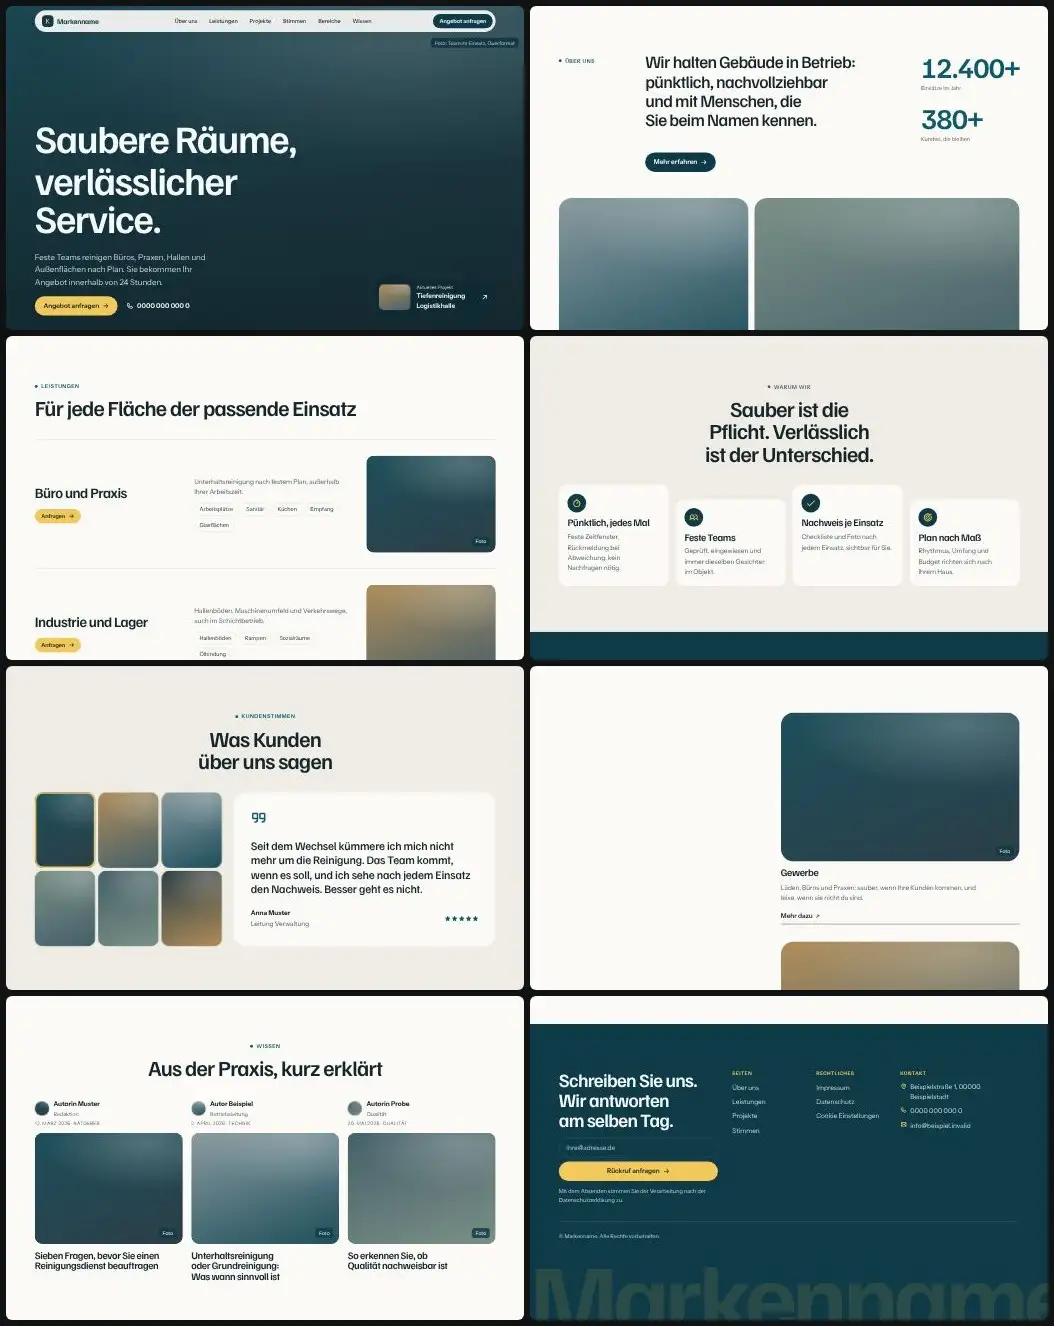
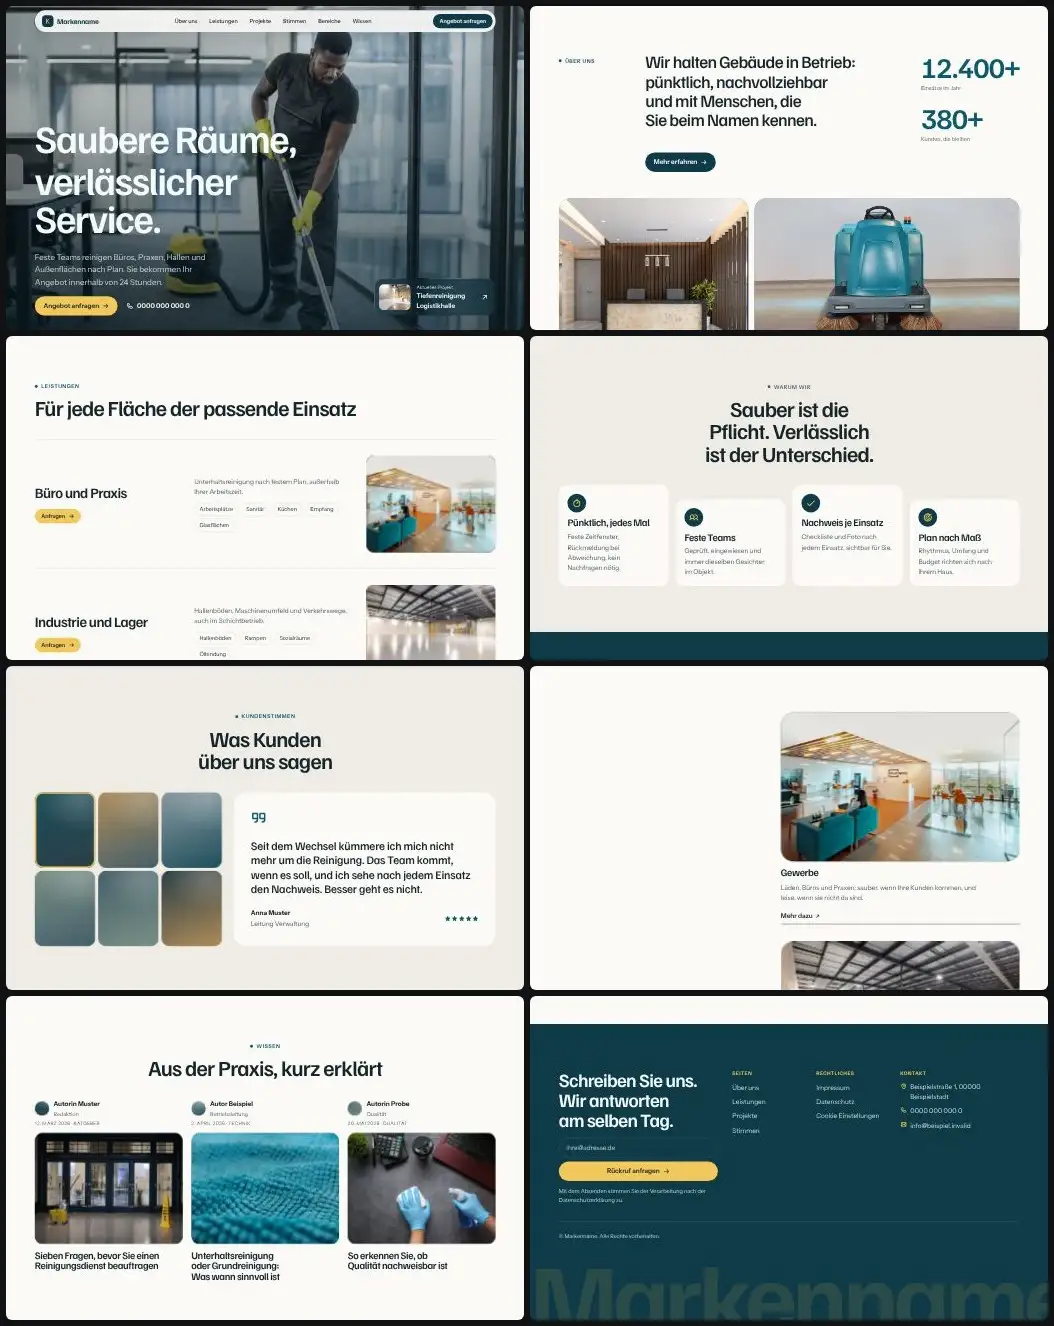
Bibliothek t31: Beispielfotos (Unsplash) eingebaut, Vorschaubilder neu erzeugt
Claude-Session: https://claude.ai/code/session_01DoGuL1bwF3ewggMgZ4Cpvd

diff --git a/skills/webdesign-conversion/assets/vorlagen/bibliothek/t31/index.html b/skills/webdesign-conversion/assets/vorlagen/bibliothek/t31/index.html
@@ -59,7 +59,7 @@
 
 <!-- Held -->
 <section class="held" id="top" data-abdunkeln aria-labelledby="held-titel">
-  <div class="held__bild bild bild--a" data-platzhalter="Foto: Team im Einsatz, Querformat"></div>
+  <div class="held__bild bild bild--a"><img src="bilder/buero-saugen-team.webp" width="1600" height="1280" decoding="async" alt="Reinigungskraft saugt einen Büroboden mit einem Staubsauger"></div>
   <div class="held__schleier" aria-hidden="true"></div>
   <div class="wrap held__innen">
     <h1 id="held-titel">
@@ -74,7 +74,7 @@
       </div>
     </div>
     <a class="held__karte" href="#projekte" data-zeig="skala" style="--i:2">
-      <span class="bild bild--b" data-platzhalter="Foto"></span>
+      <span class="bild bild--b"><img src="bilder/halle-bodenarbeit.webp" width="600" height="400" loading="lazy" decoding="async" alt=""></span>
       <span class="held__karte-text"><small>Aktuelles Projekt</small><strong>Tiefenreinigung Logistikhalle</strong></span>
       <svg width="20" height="20" aria-hidden="true"><use href="#i-schraeg"/></svg>
     </a>
@@ -115,8 +115,8 @@
     <div class="ueber__link" data-zeig><a class="knopf knopf--dunkel" href="#leistungen">Mehr erfahren <svg width="18" height="18" aria-hidden="true"><use href="#i-pfeil"/></svg></a></div>
   </div>
   <div class="wrap ueber__bilder">
-    <div class="bild bild--c" data-platzhalter="Foto: Eingangsbereich" data-zeig="skala"></div>
-    <div class="bild bild--d" data-platzhalter="Foto: Gerät im Einsatz" data-zeig="skala" style="--i:1"></div>
+    <div class="bild bild--c" data-zeig="skala"><img src="bilder/eingangsbereich-empfang.webp" width="1000" height="563" loading="lazy" decoding="async" alt="Heller Eingangsbereich mit Empfangstresen und Aufzügen"></div>
+    <div class="bild bild--d" data-zeig="skala" style="--i:1"><img src="bilder/bodenreiniger-tuerkis.webp" width="1000" height="667" loading="lazy" decoding="async" alt="Türkisfarbene Bodenreinigungsmaschine mit Bürsten"></div>
   </div>
 </section>
 
@@ -125,7 +125,7 @@
   <div class="wrap zweiteiler__raster">
     <div class="zweiteiler__tafel" data-zeig="links">
       <h2 id="zweiteiler-titel">Gründlich, weil wir es selbst machen.</h2>
-      <div class="bild bild--e" data-platzhalter="Foto: Detail"></div>
+      <div class="bild bild--e"><img src="bilder/handschuhe-schreibtisch.webp" width="1000" height="667" loading="lazy" decoding="async" alt="Hände mit blauen Handschuhen wischen einen Schreibtisch ab"></div>
       <p>Ein festes Team pro Objekt, ein Ansprechpartner, ein Plan. Wir arbeiten mit geprüften Mitteln und dokumentieren jeden Einsatz.</p>
       <a class="knopf" href="#kontakt">Preise anfragen <svg width="18" height="18" aria-hidden="true"><use href="#i-pfeil"/></svg></a>
     </div>
@@ -146,22 +146,22 @@
       <li class="zeile" data-zeig>
         <div class="zeile__kopf"><h3>Büro und Praxis</h3><a class="knopf knopf--klein" href="#kontakt">Anfragen <svg width="16" height="16" aria-hidden="true"><use href="#i-pfeil"/></svg></a></div>
         <div class="zeile__text"><p>Unterhaltsreinigung nach festem Plan, außerhalb Ihrer Arbeitszeit.</p><ul class="etiketten"><li>Arbeitsplätze</li><li>Sanitär</li><li>Küchen</li><li>Empfang</li><li>Glasflächen</li></ul></div>
-        <div class="bild bild--a" data-platzhalter="Foto"></div>
+        <div class="bild bild--a"><img src="bilder/lounge-buero.webp" width="800" height="452" loading="lazy" decoding="async" alt=""></div>
       </li>
       <li class="zeile" data-zeig>
         <div class="zeile__kopf"><h3>Industrie und Lager</h3><a class="knopf knopf--klein" href="#kontakt">Anfragen <svg width="16" height="16" aria-hidden="true"><use href="#i-pfeil"/></svg></a></div>
         <div class="zeile__text"><p>Hallenböden, Maschinenumfeld und Verkehrswege, auch im Schichtbetrieb.</p><ul class="etiketten"><li>Hallenböden</li><li>Rampen</li><li>Sozialräume</li><li>Ölbindung</li></ul></div>
-        <div class="bild bild--b" data-platzhalter="Foto"></div>
+        <div class="bild bild--b"><img src="bilder/lagerhalle-boden.webp" width="800" height="534" loading="lazy" decoding="async" alt=""></div>
       </li>
       <li class="zeile" data-zeig>
         <div class="zeile__kopf"><h3>Außen und Fassade</h3><a class="knopf knopf--klein" href="#kontakt">Anfragen <svg width="16" height="16" aria-hidden="true"><use href="#i-pfeil"/></svg></a></div>
         <div class="zeile__text"><p>Fassaden, Parkflächen und Zugänge, die den ersten Eindruck tragen.</p><ul class="etiketten"><li>Fassade</li><li>Parkplatz</li><li>Eingang</li><li>Winterdienst</li></ul></div>
-        <div class="bild bild--c" data-platzhalter="Foto"></div>
+        <div class="bild bild--c"><img src="bilder/fassade-reinigung.webp" width="800" height="600" loading="lazy" decoding="async" alt=""></div>
       </li>
       <li class="zeile" data-zeig>
         <div class="zeile__kopf"><h3>Sonderleistungen</h3><a class="knopf knopf--klein" href="#kontakt">Anfragen <svg width="16" height="16" aria-hidden="true"><use href="#i-pfeil"/></svg></a></div>
         <div class="zeile__text"><p>Einmalige Aufgaben mit festem Termin und festem Preis.</p><ul class="etiketten"><li>Bauendreinigung</li><li>Grundreinigung</li><li>Umzug</li><li>Teppich</li></ul></div>
-        <div class="bild bild--d" data-platzhalter="Foto"></div>
+        <div class="bild bild--d"><img src="bilder/tuch-handschuhe.webp" width="800" height="533" loading="lazy" decoding="async" alt=""></div>
       </li>
     </ul>
   </div>
@@ -191,10 +191,10 @@
       <h2 id="projekte-titel">Einsätze, auf die wir stolz sind</h2>
     </header>
     <div class="projekte__raster">
-      <figure class="p p--1" data-zeig="skala"><div class="bild bild--a" data-platzhalter="Foto"></div><figcaption><strong data-beispiel>Tiefenreinigung Verkehrshalle</strong><span data-beispiel>Stadt A</span></figcaption></figure>
-      <figure class="p p--2" data-zeig="skala" style="--i:1"><div class="bild bild--e" data-platzhalter="Foto"></div><figcaption><strong data-beispiel>Bauendreinigung Bürohaus</strong><span data-beispiel>Stadt B</span></figcaption></figure>
-      <figure class="p p--3" data-zeig="skala"><div class="bild bild--d" data-platzhalter="Foto"></div><figcaption><strong data-beispiel>Hallenboden Lagerzentrum</strong><span data-beispiel>Stadt C</span></figcaption></figure>
-      <figure class="p p--4" data-zeig="skala" style="--i:1"><div class="bild bild--b" data-platzhalter="Foto"></div><figcaption><strong data-beispiel>Praxis, Unterhaltsreinigung</strong><span data-beispiel>Stadt D</span></figcaption></figure>
+      <figure class="p p--1" data-zeig="skala"><div class="bild bild--a"><img src="bilder/aufzugslobby.webp" width="800" height="600" loading="lazy" decoding="async" alt=""></div><figcaption><strong data-beispiel>Tiefenreinigung Verkehrshalle</strong><span data-beispiel>Stadt A</span></figcaption></figure>
+      <figure class="p p--2" data-zeig="skala" style="--i:1"><div class="bild bild--e"><img src="bilder/halle-glaenzend.webp" width="800" height="533" loading="lazy" decoding="async" alt=""></div><figcaption><strong data-beispiel>Bauendreinigung Bürohaus</strong><span data-beispiel>Stadt B</span></figcaption></figure>
+      <figure class="p p--3" data-zeig="skala"><div class="bild bild--d"><img src="bilder/flur-langgestreckt.webp" width="800" height="533" loading="lazy" decoding="async" alt=""></div><figcaption><strong data-beispiel>Hallenboden Lagerzentrum</strong><span data-beispiel>Stadt C</span></figcaption></figure>
+      <figure class="p p--4" data-zeig="skala" style="--i:1"><div class="bild bild--b"><img src="bilder/eingang-wischeimer.webp" width="800" height="533" loading="lazy" decoding="async" alt=""></div><figcaption><strong data-beispiel>Praxis, Unterhaltsreinigung</strong><span data-beispiel>Stadt D</span></figcaption></figure>
     </div>
   </div>
 </section>
@@ -244,10 +244,10 @@
         </ol>
       </div>
       <div class="bereiche__rechts">
-        <article class="bereich aktiv" id="bereich-1"><div class="bild bild--a" data-platzhalter="Foto"></div><h3>Gewerbe</h3><p>Läden, Büros und Praxen: sauber, wenn Ihre Kunden kommen, und leise, wenn sie nicht da sind.</p><a class="textlink" href="#kontakt">Mehr dazu <svg width="14" height="14" aria-hidden="true"><use href="#i-schraeg"/></svg></a></article>
-        <article class="bereich" id="bereich-2"><div class="bild bild--b" data-platzhalter="Foto"></div><h3>Industrie</h3><p>Hallen, Werkstätten und Lager mit Schichtbetrieb, Sicherheitsvorgaben und klarer Dokumentation.</p><a class="textlink" href="#kontakt">Mehr dazu <svg width="14" height="14" aria-hidden="true"><use href="#i-schraeg"/></svg></a></article>
-        <article class="bereich" id="bereich-3"><div class="bild bild--c" data-platzhalter="Foto"></div><h3>Bürogebäude</h3><p>Mehrere Mieter, gemeinsame Flächen, ein Ansprechpartner für die Hausverwaltung.</p><a class="textlink" href="#kontakt">Mehr dazu <svg width="14" height="14" aria-hidden="true"><use href="#i-schraeg"/></svg></a></article>
-        <article class="bereich" id="bereich-4"><div class="bild bild--d" data-platzhalter="Foto"></div><h3>Öffentliche Einrichtungen</h3><p>Schulen, Verwaltungen und Hallen mit festen Vergabeunterlagen und nachweisbarer Qualität.</p><a class="textlink" href="#kontakt">Mehr dazu <svg width="14" height="14" aria-hidden="true"><use href="#i-schraeg"/></svg></a></article>
+        <article class="bereich aktiv" id="bereich-1"><div class="bild bild--a"><img src="bilder/lounge-buero.webp" width="800" height="452" loading="lazy" decoding="async" alt=""></div><h3>Gewerbe</h3><p>Läden, Büros und Praxen: sauber, wenn Ihre Kunden kommen, und leise, wenn sie nicht da sind.</p><a class="textlink" href="#kontakt">Mehr dazu <svg width="14" height="14" aria-hidden="true"><use href="#i-schraeg"/></svg></a></article>
+        <article class="bereich" id="bereich-2"><div class="bild bild--b"><img src="bilder/lagerhalle-boden.webp" width="800" height="534" loading="lazy" decoding="async" alt=""></div><h3>Industrie</h3><p>Hallen, Werkstätten und Lager mit Schichtbetrieb, Sicherheitsvorgaben und klarer Dokumentation.</p><a class="textlink" href="#kontakt">Mehr dazu <svg width="14" height="14" aria-hidden="true"><use href="#i-schraeg"/></svg></a></article>
+        <article class="bereich" id="bereich-3"><div class="bild bild--c"><img src="bilder/aufzugslobby.webp" width="800" height="600" loading="lazy" decoding="async" alt=""></div><h3>Bürogebäude</h3><p>Mehrere Mieter, gemeinsame Flächen, ein Ansprechpartner für die Hausverwaltung.</p><a class="textlink" href="#kontakt">Mehr dazu <svg width="14" height="14" aria-hidden="true"><use href="#i-schraeg"/></svg></a></article>
+        <article class="bereich" id="bereich-4"><div class="bild bild--d"><img src="bilder/flur-langgestreckt.webp" width="800" height="533" loading="lazy" decoding="async" alt=""></div><h3>Öffentliche Einrichtungen</h3><p>Schulen, Verwaltungen und Hallen mit festen Vergabeunterlagen und nachweisbarer Qualität.</p><a class="textlink" href="#kontakt">Mehr dazu <svg width="14" height="14" aria-hidden="true"><use href="#i-schraeg"/></svg></a></article>
       </div>
     </div>
   </div>
@@ -260,7 +260,7 @@
     <h2 id="abschluss-titel" data-zeig style="--i:1">Sie wollen es sauber, planbar und ohne Nachfassen?</h2>
     <div data-zeig style="--i:2"><a class="knopf" href="#kontakt">Angebot anfragen <svg width="18" height="18" aria-hidden="true"><use href="#i-pfeil"/></svg></a></div>
   </div>
-  <div class="abschluss__bild bild bild--e" data-platzhalter="Foto: Team in heller Eingangshalle, Breitformat" data-rund></div>
+  <div class="abschluss__bild bild bild--e" data-rund><img src="bilder/eingangshalle-breit.webp" width="1600" height="900" loading="lazy" decoding="async" alt=""></div>
 </section>
 
 <!-- Wissen -->
@@ -274,21 +274,21 @@
       <li class="beitrag" data-zeig>
         <a href="#wissen">
           <div class="beitrag__kopf"><span class="avatar bild bild--a" aria-hidden="true"></span><span><strong data-beispiel>Autorin Muster</strong><small>Redaktion</small></span><span class="beitrag__datum" data-beispiel>12. März 2026 · Ratgeber</span></div>
-          <div class="bild bild--a" data-platzhalter="Foto"></div>
+          <div class="bild bild--a"><img src="bilder/eingang-wischeimer.webp" width="800" height="533" loading="lazy" decoding="async" alt=""></div>
           <h3 data-beispiel>Sieben Fragen, bevor Sie einen Reinigungsdienst beauftragen</h3>
         </a>
       </li>
       <li class="beitrag" data-zeig>
         <a href="#wissen">
           <div class="beitrag__kopf"><span class="avatar bild bild--c" aria-hidden="true"></span><span><strong data-beispiel>Autor Beispiel</strong><small>Betriebsleitung</small></span><span class="beitrag__datum" data-beispiel>2. April 2026 · Technik</span></div>
-          <div class="bild bild--c" data-platzhalter="Foto"></div>
+          <div class="bild bild--c"><img src="bilder/mikrofaser-textur.webp" width="800" height="533" loading="lazy" decoding="async" alt=""></div>
           <h3 data-beispiel>Unterhaltsreinigung oder Grundreinigung: Was wann sinnvoll ist</h3>
         </a>
       </li>
       <li class="beitrag" data-zeig>
         <a href="#wissen">
           <div class="beitrag__kopf"><span class="avatar bild bild--e" aria-hidden="true"></span><span><strong data-beispiel>Autorin Probe</strong><small>Qualität</small></span><span class="beitrag__datum" data-beispiel>20. Mai 2026 · Qualität</span></div>
-          <div class="bild bild--e" data-platzhalter="Foto"></div>
+          <div class="bild bild--e"><img src="bilder/handschuhe-schreibtisch.webp" width="1000" height="667" loading="lazy" decoding="async" alt=""></div>
           <h3 data-beispiel>So erkennen Sie, ob Qualität nachweisbar ist</h3>
         </a>
       </li>

diff --git a/skills/webdesign-conversion/assets/vorlagen/bibliothek/t31/stil.css b/skills/webdesign-conversion/assets/vorlagen/bibliothek/t31/stil.css
@@ -276,3 +276,9 @@ h2{font-size:var(--h2-m)}
 @media (min-width:48rem){.fuss__innen{grid-template-columns:repeat(2,1fr)}.fuss__links{grid-column:1/-1}}
 @media (min-width:62rem){.fuss__innen{grid-template-columns:1.6fr .7fr .7fr 1.2fr;column-gap:2.5rem}.fuss__links{grid-column:auto}}
 @media (prefers-reduced-motion:reduce){.js .held h1 .h-zeile>span{animation:none}.zeile .bild::before,.p .bild::before,.beitrag .bild::before{transition:none}}
+
+/* Beispielfotos: Bild über den Verlaufsflächen der Platzhalter */
+.bild>img{position:relative;z-index:1}
+.held__bild>img{position:absolute;inset:0;object-position:center 35%}
+.zeile:hover .bild>img{transform:scale(1.05)}
+.bild>img{transition:transform var(--dauer-lang) var(--kurve)}

diff --git a/skills/webdesign-conversion/assets/vorlagen/bibliothek/t31/BILDER.md b/skills/webdesign-conversion/assets/vorlagen/bibliothek/t31/BILDER.md
@@ -1,0 +1,34 @@
+# Bilder t31
+
+Alle Fotos von Unsplash, abgerufen am 25.11.2026. Titel und Lizenz stehen so auf der Seite des Fotos (Titel von Unsplash automatisch vergeben), als Fotograf ist das Unsplash Profil angegeben, weil die Seite den Namen nur als Profillink zeigte. Lizenz ist jeweils die Unsplash Lizenz.
+
+| Datei | Platz | Foto Titel | Fotograf (Profil) | Seite | Lizenz | Abruf |
+|---|---|---|---|---|---|---|
+| buero-saugen-team.webp | Held | Ein Mann mit gelben Handschuhen saugt einen mit Teppich ausgelegten Büroboden | @webseoweb | https://unsplash.com/photos/CVcIMnH_7so | Unsplash Lizenz | 25.11.2026 |
+| halle-bodenarbeit.webp | Held, Karte Aktuelles Projekt | Arbeiter streichen einen großen Industrieboden weiß | @craftsmanconcrete_official | https://unsplash.com/photos/4yCaHDEfgfk | Unsplash Lizenz | 25.11.2026 |
+| eingangsbereich-empfang.webp | Über uns, Bild 1 | Moderne Lobby mit Rezeption und Aufzügen | @aalolens | https://unsplash.com/photos/tUcVQwXsNck | Unsplash Lizenz | 25.11.2026 |
+| eingangshalle-breit.webp | Abschluss, Breitbild | Moderne Lobby mit Rezeption und Aufzügen | @aalolens | https://unsplash.com/photos/tUcVQwXsNck | Unsplash Lizenz | 25.11.2026 |
+| bodenreiniger-tuerkis.webp | Über uns, Bild 2 | Türkisfarbener Industriebodenreiniger mit vorderen Bürsten | @giyofloor | https://unsplash.com/photos/jP34CmsnLa0 | Unsplash Lizenz | 25.11.2026 |
+| handschuhe-schreibtisch.webp | Zweiteiler, Detail; Blog, Beitrag 3 | Hände in blauen Handschuhen, reinigen einen dunklen Schreibtisch mit einer Sprühflasche und einem Tuch | @towfiqu999999 | https://unsplash.com/photos/-9gPKrsbGmc | Unsplash Lizenz | 25.11.2026 |
+| lounge-buero.webp | Leistungen, Büro und Praxis; Bereiche, Gewerbe | Unbekannte Person sitzt auf blauer Couch | @smartworkscoworking | https://unsplash.com/photos/E7Tzh2TTS6c | Unsplash Lizenz | 25.11.2026 |
+| lagerhalle-boden.webp | Leistungen, Industrie und Lager; Bereiche, Industrie | Leeres Industrielager mit poliertem Betonboden | @craftsmanconcrete_official | https://unsplash.com/photos/NADTQRbS0s4 | Unsplash Lizenz | 25.11.2026 |
+| fassade-reinigung.webp | Leistungen, Außen und Fassade | Mann reinigt weißes Gebäude | @nmsilva | https://unsplash.com/photos/Rcsa_Rg77Tc | Unsplash Lizenz | 25.11.2026 |
+| tuch-handschuhe.webp | Leistungen, Sonderleistungen | Person im weißen Gewand mit schwarzem und gelbem Regenschirm | @nini_m | https://unsplash.com/photos/BUXdQh53eis | Unsplash Lizenz | 25.11.2026 |
+| aufzugslobby.webp | Projekte 1; Bereiche, Bürogebäude | Moderne Aufzugslobby mit Marmor- und Glasakzenten | @aalolens | https://unsplash.com/photos/713E0LsFGz0 | Unsplash Lizenz | 25.11.2026 |
+| halle-glaenzend.webp | Projekte 2 | Glänzender Lagerhausboden mit Deckenlicht und Decke | @craftsmanconcrete_official | https://unsplash.com/photos/bYcnue7qKNk | Unsplash Lizenz | 25.11.2026 |
+| flur-langgestreckt.webp | Projekte 3; Bereiche, Öffentliche Einrichtungen | ein langer Flur, der zu einer Küche und einem Essbereich führt | @craigology | https://unsplash.com/photos/ePvb1-79bV0 | Unsplash Lizenz | 25.11.2026 |
+| eingang-wischeimer.webp | Projekte 4; Blog, Beitrag 1 | Gelber Wisch-Eimer und Nassboden-Schild bei Glastüren | @hazelikespollo | https://unsplash.com/photos/PkFdlMAl85Q | Unsplash Lizenz | 25.11.2026 |
+| mikrofaser-textur.webp | Blog, Beitrag 2 | blau-weißes Strickgewebe | @mitchel3uo | https://unsplash.com/photos/T3RuVobebbE | Unsplash Lizenz | 25.11.2026 |
+
+## Hinweise
+
+* Mehrere Fotos stehen an mehr als einem Platz (siehe Spalte Platz), weil es für viele Plätze nicht genug passende Motive mit Unsplash Lizenz gab. Vor Abgabe durch eigene Fotos des Betriebs ersetzen.
+* Vier Fotos sind nicht genommen worden, weil auf ihren Seiten die Lizenz nicht als Unsplash Lizenz ausgewiesen war.
+* Die Platzhalter der Leistungsfotos stammen aus dem Bereich Gebäudereinigung, kein Bild zeigt Marken oder lesbaren Text.
+* Fast alle Bilder sind dekorativ (`alt=""`), nur Held, Eingangsbereich, Gerät und Detail tragen einen Alt Text.
+* Der Überlauf von 402 px bei 390 px Breite stammt vom Laufband der Logoleiste und war vor den Fotos schon da.
+
+## Offen
+
+* Foto Team bei der Arbeit (Hochformat, mit Plakette): bleibt Platzhalter.
+* Sechs Porträts der Kundenstimmen: Personen, bleiben offen, damit niemand als echte Person erscheint.
